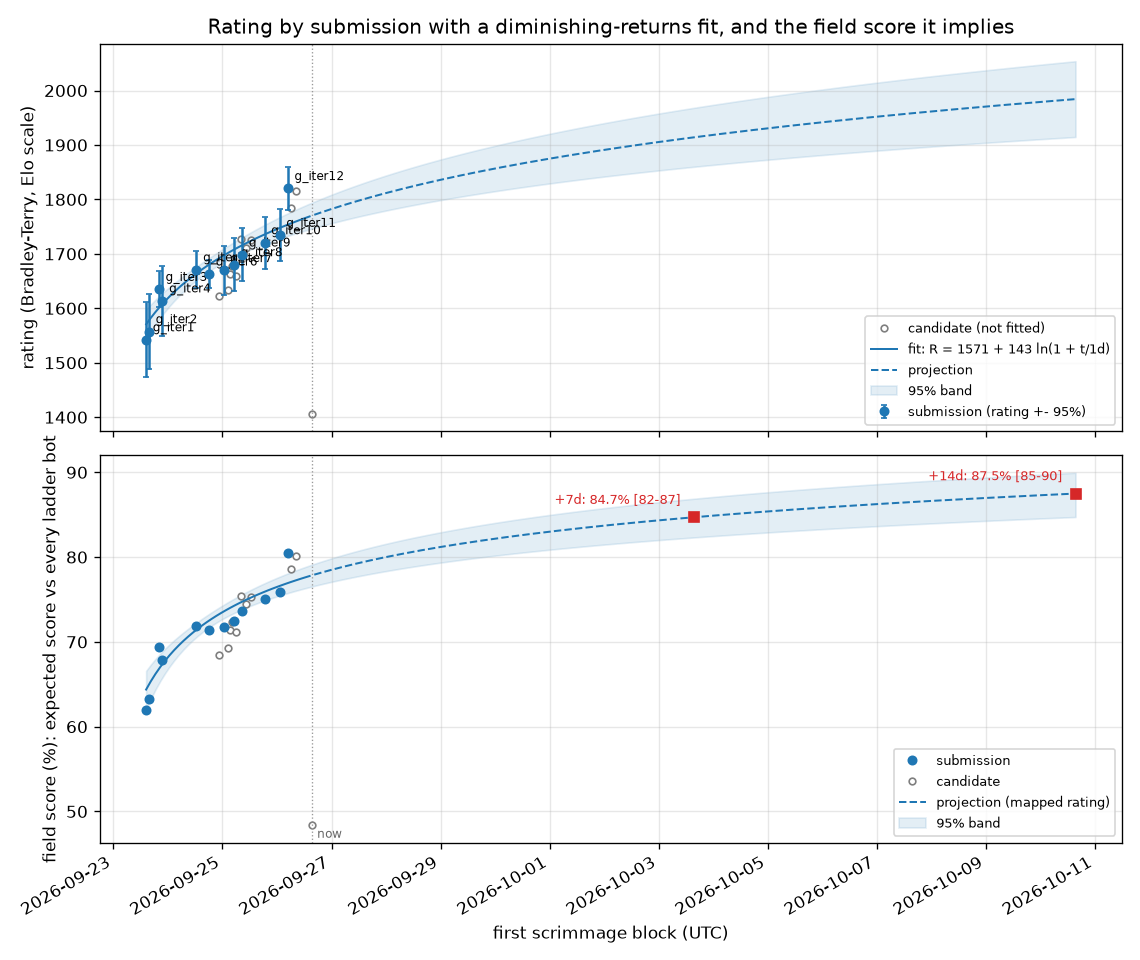
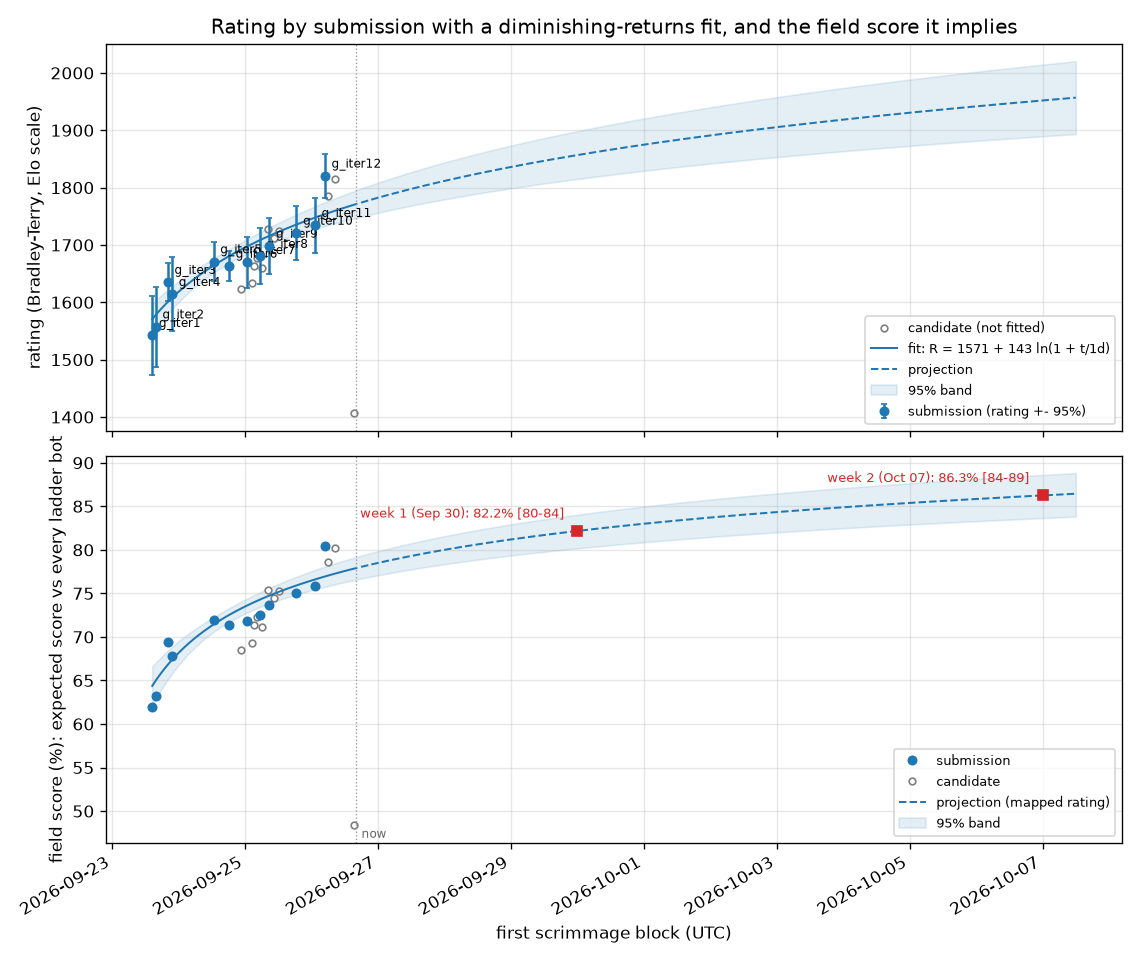
Field-score chart: horizons are Sep 30 and Oct 7, the ends of weeks 1 and 2 (PROMPTS 46); lattice stages 11-14 logged
Claude-Session: https://claude.ai/code/session_015tNyF5ucwWW1mudpEQTT25

diff --git a/src/bot/Landscaper.java b/src/bot/Landscaper.java
@@ -38,6 +38,10 @@ public strictfp class Landscaper extends Robot {
         if (forward) { attack(); return; }   // Iteration 63
         MapLocation home = MapState.home;
         if (home == null) { nav.setTarget(null); return; }
+        // Iteration 78 stage 9: the eight ring seats first, as g_iter12 (the rush answer: stage 8 died to rushes at r174-308 on
+        // three maps of six); every other home landscaper works the lattice
+        if (!attacker && !helper && (seat == null || (!seat.equals(loc) && occupiedByOther(seat)))) seat = pickSeat(home);
+        if (!attacker && seat == null) { lattice(home); return; }
         if (!attacker && !helper) {
             if (seat != null && !seat.equals(loc) && nav.target() == seat && nav.stalled()) { if (nBad < 8) badSeat[nBad++] = seat; Debug.log("@badseat " + seat); seat = null; }
             if (seat == null || !seat.equals(loc) && occupiedByOther(seat)) seat = pickSeat(home);
@@ -47,6 +51,67 @@ public strictfp class Landscaper extends Robot {
         if (helper) { help(home); return; }
         if (!loc.equals(seat)) { if (floodDanger() && climb()) return; nav.setTarget(seat); nav.step(); if (loc.equals(seat)) Debug.log("@seated at=" + seat); return; }
         wall(home);
+    }
+
+    private MapLocation latSpot;
+    private boolean schoolDoor(MapLocation n) throws GameActionException {
+        for (int i = nFriend; --i >= 0;) { RobotInfo f = friends[i]; if (f.type != RobotType.DESIGN_SCHOOL || !f.location.isAdjacentTo(n)) continue;
+            if (rc.canSenseLocation(f.location) && rc.canSenseLocation(n) && rc.senseElevation(n) >= rc.senseElevation(f.location) + 2) return true; }
+        return false;
+    }
+    /** Iteration 78: work the lattice. Dig the HQ out; with dirt, raise the lowest grid tile beside us that is below the
+     *  target (our own tile included); without, dig a free cell beside us (a pit), else a grid tile far above the
+     *  target, else walk to the lowest grid tile in sight. */
+    private void lattice(MapLocation home) throws GameActionException {
+        if (!rc.isReady()) return;
+        if (hqInfo != null && hqInfo.dirtCarrying > 0 && loc.isAdjacentTo(home) && rc.canDigDirt(loc.directionTo(home)) && rc.getDirtCarrying() < RobotType.LANDSCAPER.dirtLimit) { rc.digDirt(loc.directionTo(home)); hqDigs++; digs++; return; }
+        for (int i = nEnemy; --i >= 0;) { RobotInfo e = enemies[i]; if (e.type.isBuilding() && loc.isAdjacentTo(e.location) && rc.getDirtCarrying() > 0 && rc.canDepositDirt(loc.directionTo(e.location))) { rc.depositDirt(loc.directionTo(e.location)); buryDeposits++; return; } }
+        // stage 3: the HQ being buried is everyone's job -- a free tile beside it, now (stage 2 died to the rush at r279, no dig)
+        if (hqInfo != null && hqInfo.dirtCarrying > 0 && !loc.isAdjacentTo(home)) { if (rc.getDirtCarrying() > 0) { for (int i = 8; --i >= 0;) { Direction d = DIRS[i]; if (!loc.add(d).equals(home) && !isGrid(loc.add(d)) && !isLot(loc.add(d)) && rc.canDepositDirt(d)) { rc.depositDirt(d); return; } } } nav.setTarget(home); nav.step(); return; }
+        int target = gridTarget(round);
+        if (!isGrid(loc) || Nav.cheb(loc, home) > C.LATTICE_R) {   // get onto the lattice
+            MapLocation best = null; int bd = 1 << 30;
+            for (int dx = -C.LATTICE_R; dx <= C.LATTICE_R; dx++) for (int dy = -C.LATTICE_R; dy <= C.LATTICE_R; dy++) {
+                MapLocation t = new MapLocation(home.x + dx, home.y + dy); if (!isGrid(t) || !rc.onTheMap(t)) continue;
+                if (rc.canSenseLocation(t) && (rc.senseFlooding(t) || rc.isLocationOccupied(t))) continue;
+                int d = loc.distanceSquaredTo(t); if (d < bd) { bd = d; best = t; } }
+            if (best != null) { nav.setTarget(best); nav.step(); } return;
+        }
+        if (rc.getDirtCarrying() > 0) {
+            Direction bestD = null; int be = target;
+            if (rc.senseElevation(loc) < be && !schoolDoor(loc)) { be = rc.senseElevation(loc); bestD = Direction.CENTER; }
+            for (int i = 8; --i >= 0;) { Direction d = DIRS[i]; MapLocation n = loc.add(d); if (!(isGrid(n) || isLot(n)) || !rc.canSenseLocation(n) || !rc.canDepositDirt(d)) continue;
+                RobotInfo r = rc.senseRobotAtLocation(n); if (r != null && r.type.isBuilding()) continue;
+                if (isGrid(n) && schoolDoor(n)) continue;   // stage 7: a school's doors stay within 3 of it (the first school was boxed in at eight landscapers)
+                int e = rc.senseElevation(n) - (isLot(n) ? C.LOT_ABOVE : 0);
+                if (isLot(n) && e < target) { for (int k = nFriend; --k >= 0;) if (friends[k].type == RobotType.MINER && friends[k].location.isAdjacentTo(n)) { e -= 1000; break; } }   // stage 13: the pad our builder waits beside first
+                if (e < be) { be = e; bestD = d; } }   // stage 11: lots raised to the grid + LOT_ABOVE (pads)
+            if (bestD != null && rc.canDepositDirt(bestD)) { rc.depositDirt(bestD); deposits++; return; }
+        }
+        if (rc.getDirtCarrying() < RobotType.LANDSCAPER.dirtLimit) {
+            Direction bestD = null; int bs = Integer.MAX_VALUE;
+            for (int i = 8; --i >= 0;) { Direction d = DIRS[i]; MapLocation n = loc.add(d); if (!rc.onTheMap(n) || n.equals(home) || !rc.canDigDirt(d)) continue;
+                RobotInfo r = rc.canSenseLocation(n) ? rc.senseRobotAtLocation(n) : null; if (r != null && (r.type.isBuilding() || r.team == us)) continue;
+                int e = rc.senseElevation(n), s;
+                if (isPit(n)) s = -e;                                      // a pit: the highest first (stage 2: pits only, never a lot)
+                else if (isGrid(n) && e > target + 20) s = 100000 - e;     // a grid tile far above the target
+                else if (Nav.cheb(n, home) > C.LATTICE_R) s = 200000 - e;  // outside the lattice
+                else continue;
+                if (s < bs) { bs = s; bestD = d; } }
+            if (bestD != null) { rc.digDirt(bestD); digs++; return; }
+        }
+        // nothing to do here: walk the grid toward its lowest tile in sight (re-chosen every 20 rounds)
+        for (int k = nFriend; --k >= 0;) { RobotInfo f = friends[k]; if (f.type != RobotType.MINER || Nav.cheb(f.location, home) > C.LATTICE_R + 1) continue;   // stage 13: go to the builder's pad
+            for (int i = 8; --i >= 0;) { MapLocation lot = f.location.add(DIRS[i]); if (!isLot(lot) || !rc.canSenseLocation(lot) || rc.isLocationOccupied(lot) || rc.senseElevation(lot) >= target + C.LOT_ABOVE) continue;
+                for (int j = 8; --j >= 0;) { MapLocation g = lot.add(DIRS[j]); if (isGrid(g) && !g.equals(f.location) && rc.canSenseLocation(g) && !rc.isLocationOccupied(g)) { latSpot = g; break; } } } }
+        if (latSpot == null || loc.equals(latSpot) || round % 20 == id % 20) {
+            MapLocation best = null; int be = Integer.MAX_VALUE;
+            for (int dx = -C.LATTICE_R; dx <= C.LATTICE_R; dx++) for (int dy = -C.LATTICE_R; dy <= C.LATTICE_R; dy++) {
+                MapLocation t = new MapLocation(home.x + dx, home.y + dy); if (!isGrid(t) || !rc.canSenseLocation(t) || rc.isLocationOccupied(t)) continue;
+                int e = rc.senseElevation(t) * 4 + loc.distanceSquaredTo(t); if (e < be) { be = e; best = t; } }
+            latSpot = best;
+        }
+        if (latSpot != null) { nav.setTarget(latSpot); nav.step(); }
     }
 
     private boolean occupiedByOther(MapLocation l) throws GameActionException {

diff --git a/src/bot/Miner.java b/src/bot/Miner.java
@@ -9,6 +9,7 @@ import battlecode.common.*;
  * nearest refinery or the HQ, explore when nothing is known).
  */
 public strictfp class Miner extends Robot {
+    private int lastSchoolRound = -1000, wantSince = 0; private RobotType lastWant = null;
     private boolean builder, rusher, planted; private int probeRounds = 0, probeSign = -1;
     private final MapLocation[] soupMem = new MapLocation[C.SOUP_MEMORY]; private int nSoup = 0;
     private MapLocation explore;
@@ -75,6 +76,26 @@ public strictfp class Miner extends Robot {
         nav.step();
     }
 
+    /** Iteration 78: build on a free cell of the lattice beside us; else walk to a grid tile beside the nearest free cell. */
+    private boolean latticeBuild(RobotType want, MapLocation home) throws GameActionException {
+        if (!rc.isReady()) return true;
+        for (int i = 8; --i >= 0;) { Direction d = DIRS[i]; MapLocation n = loc.add(d); if (!isLot(n) || Nav.cheb(n, home) < 2 || !rc.canBuildRobot(want, d)) continue;
+            if ((want == RobotType.VAPORATOR || want == RobotType.FULFILLMENT_CENTER || (want == RobotType.DESIGN_SCHOOL && builtSchool > 0)) && rc.senseElevation(n) < gridTarget(round) + C.LOT_ABOVE - 1) continue;   // stage 11-12: on a raised pad
+            rc.buildRobot(want, d); lastWant = null; Debug.log("@build t=" + want.ordinal() + " at=" + n + " cell soup=" + rc.getTeamSoup());
+            if (want == RobotType.REFINERY) { builtRefinery++; refinery = n; } else if (want == RobotType.DESIGN_SCHOOL) builtSchool++; else if (want == RobotType.VAPORATOR) builtVap++; else if (want == RobotType.NET_GUN) builtNet++; else builtFC++;
+            return true; }
+        MapLocation best = null; int bd = 1 << 30;
+        for (int dx = -C.LATTICE_R; dx <= C.LATTICE_R; dx++) for (int dy = -C.LATTICE_R; dy <= C.LATTICE_R; dy++) {
+            MapLocation c = new MapLocation(home.x + dx, home.y + dy); if (!isLot(c) || Nav.cheb(c, home) < 2 || !rc.onTheMap(c)) continue;
+            if (rc.canSenseLocation(c) && (rc.isLocationOccupied(c) || rc.senseFlooding(c))) continue;
+            int d = loc.distanceSquaredTo(c); if (d < bd) { bd = d; best = c; } }
+        if (best == null) return false;
+        // stage 2: stand on a grid tile beside the lot (a lot's own tile is not a place to stand while building on it)
+        MapLocation stand = null; int sd = 1 << 30; for (int i = 8; --i >= 0;) { MapLocation g = best.add(DIRS[i]); if (!isGrid(g) || !rc.onTheMap(g)) continue; if (rc.canSenseLocation(g) && rc.isLocationOccupied(g) && !g.equals(loc)) continue; int d = loc.distanceSquaredTo(g); if (d < sd) { sd = d; stand = g; } }
+        if (stand != null) best = stand;
+        nav.setTarget(best); if (nav.stalled()) { buildPause = round + 30; return false; } nav.step(); return true;
+    }
+
     // ---------------------------------------------------------------- builder
     private boolean build() throws GameActionException {
         MapLocation home = MapState.home; if (home == null) return false;
@@ -88,11 +109,18 @@ public strictfp class Miner extends Robot {
         else if (builtSchool > 0 && builtFC == 0 && rushSeen() && soup >= RobotType.FULFILLMENT_CENTER.cost) { want = RobotType.FULFILLMENT_CENTER; Debug.log("@rush center"); }
         else if (builtRefinery == 0 && soup >= RobotType.REFINERY.cost) want = RobotType.REFINERY;
         else if (builtRefinery > 0 && builtSchool == 0 && soup >= RobotType.DESIGN_SCHOOL.cost) want = RobotType.DESIGN_SCHOOL;
-        else if (builtFC > 0 && builtFC < 6 && round >= 800 && soup >= 400) want = RobotType.FULFILLMENT_CENTER;   // Iteration 80: more centers after r800
-        else if (builtSchool > 0 && builtVap < C.VAPORATORS_MAX && soup >= C.VAPORATOR_BANK && (round < 900 || builtFC > 0)) want = RobotType.VAPORATOR;
+        else if (builtSchool > 0 && builtSchool < 4 && soup >= 1000 && round - lastSchoolRound > 150) { want = RobotType.DESIGN_SCHOOL; lastSchoolRound = round; }   // stage 6: another school on a fresh lot when the bank piles up (the first is boxed in by the rising grid: eight landscapers and 15,000 soup idle)
+        else if (builtFC > 0 && builtFC < 4 && soup >= 2000 && round >= 600 && round - lastSchoolRound > 100) { want = RobotType.FULFILLMENT_CENTER; lastSchoolRound = round; }   // stage 8: more centers for the raid when the bank piles up
+        else if (builtVap >= 4 && builtFC == 0 && soup >= RobotType.FULFILLMENT_CENTER.cost) want = RobotType.FULFILLMENT_CENTER;   // stage 9: the first center once four vaporators stand (it came after the vaporators, i.e. never: RandomSoup1 banked 39,000 with no drone)
+        else if (builtSchool > 0 && builtVap < C.VAPORATORS_MAX && soup >= C.VAPORATOR_BANK) want = RobotType.VAPORATOR;
         else if (builtVap > 0 && builtFC == 0 && soup >= C.FC_BANK + RobotType.FULFILLMENT_CENTER.cost) want = RobotType.FULFILLMENT_CENTER;   // Iteration 2's early center gated at 52%: back to after the first vaporator
         else if (builtVap > 0 && builtNet < C.NETGUNS_MAX && soup >= C.NETGUN_BANK + RobotType.NET_GUN.cost) want = RobotType.NET_GUN;
         if (want == null) return false;
+        // stage 10: on a lot, but for no more than 40 rounds per building (Squares: the lots sat on 20-99 cliffs, the builder
+        // walked for 900 rounds after its refinery and no school was ever built); then the old placement
+        if (want != lastWant) { lastWant = want; wantSince = round; }
+        boolean mayFallBack = want == RobotType.REFINERY || (want == RobotType.DESIGN_SCHOOL && builtSchool == 0);   // stage 12: only the refinery and the first school leave the lattice (a vaporator, school or center at ground drowns at the flood)
+        if ((want != RobotType.FULFILLMENT_CENTER || !rushSeen()) && (round - wantSince < 40 || !mayFallBack)) return latticeBuild(want, home);   // Iteration 78: every building on a cell
         if (want == RobotType.FULFILLMENT_CENTER && rushSeen()) return rushBuild(want, home);   // Iteration 57: the rush center where the rusher is not (Iteration 54's never found a site)
         // site: a tile at Chebyshev BUILD_DIST from home, or further out for later buildings
         int dist = want == RobotType.REFINERY || want == RobotType.DESIGN_SCHOOL ? C.BUILD_DIST : C.BUILD_DIST + 1 + (builtVap + builtNet + builtFC) / 4;

diff --git a/src/bot/C.java b/src/bot/C.java
@@ -19,9 +19,9 @@ public final class C {
     public static final int SOUP_BAD = 8;             // unreachable soup regions a miner remembers
     public static final int VAPORATOR_BANK = 500;     // a builder buys a vaporator when the bank exceeds this
     public static final int FC_EARLY_BANK = 350;      // Iteration 2: the fulfillment center comes right after the school, at this bank
-    public static final int VAPORATORS_MAX = 60;
+    public static final int VAPORATORS_MAX = 40;
     public static final int NETGUN_BANK = 400;        // ... a net gun (after the first vaporator) above this
-    public static final int NETGUNS_MAX = 2;
+    public static final int NETGUNS_MAX = 0;
     public static final int FC_BANK = 500;            // ... a fulfillment center above this, once the wall has started
     public static final int DRONES_MAX = 8;           // Iteration 2: drones fly over the flood and count at the tiebreak
     public static final int DRONE_RESERVE = 250;      // the center keeps this much soup back
@@ -29,8 +29,8 @@ public final class C {
     // landscapers in twenty rounds and drop theirs by our HQ; scale 24 -> 70 drones from r700, charge with 20.
     // Iteration 61: the raid. The field wins r1500-2300 with 8-25 drones lifting wall landscapers off the ring; our late
     // bank (2,000+ soup unspent from r800 on the ladder's late games) buys the same.
-    public static final int RAID_DRONES_MAX = 300;     // drones built in all, from RAID_BUILD_FROM
-    public static final int RAID_BUILD_FROM = 700;
+    public static final int RAID_DRONES_MAX = 150;     // drones built in all, from RAID_BUILD_FROM
+    public static final int RAID_BUILD_FROM = 900;
     public static final int RAID_FROM = 1400;         // the swarm gathers from this round
     public static final int RAID_MIN = 20;            // and charges with this many in sight of the rally point
     public static final int RAID_HOME_GUARD = 3;      // the first three drones never raid
@@ -41,14 +41,16 @@ public final class C {
     public static final int WALL_LANDSCAPERS = 8;     // one per ring tile
     public static final int WALL_HELPERS = 8;         // Iteration 3: a second ring at distance 2 feeding dirt onto the seats
     public static final int HELPER_BANK = 200;        // Iteration 43b: was 300, 43 tried 0 (the HQ starved of miners); 200 leaves the HQ its MINER_SOUP_RESERVE -- the bank it guarded is never spent (12,000 unspent at r3000)
-    public static final int LANDSCAPERS_MAX = 24;     // the surplus attacks
+    public static final int LANDSCAPERS_MAX = 40;     // the surplus attacks
     public static final int ATTACKER_BANK = 200;      // Iteration 43b: was 700, 43 tried 0 -- landscapers 17-24 came 200 rounds late on RandomSoup1 and never on Toothpaste as A
     public static final int RUSH_UNTIL = 400;          // Iteration 29: an enemy school or landscaper this close to our HQ before this round is a rush
     public static final int RUSH_D2 = 64;
     public static final boolean ASSUME_ORIGIN = true;
-    // Iteration 80 (winkelmantanner's economy, read 2026-09-26: 24 landscapers and 1 vaporator at r500, then 45 vaporators
-    // by r1000 and 72 by r1500, 8 centers and 483 drones that lift every landscaper off our wall by r2000): once the wall is
-    // manned, every soup into vaporators until r800; then centers and drones.
+    // Iteration 78: ronniesong0809's lattice (read 2026-09-26, PROMPTS 45). Around the HQ, every tile with an even
+    // x or an even y offset is GRID, raised with the water; the odd-odd CELLS are pits (dirt) or buildings.
+    public static final int LATTICE_R = 4;             // Chebyshev radius of the lattice
+    public static final int LOT_ABOVE = 3;             // stage 11 (winkelmantanner's lattice, read 2026-09-26): lots stand ABOVE the grid -- walkways at 7, vaporator pads at 9-10, pits left to flood; its vaporators lived to r1700-1800 on a map that floods at r677
+    public static final int GRID_MIN = 7;              // the grid's floor height (stage 5: 8 -> 5 -- a grid raised past a building's tile + 3 boxes its spawns in; the school at ground stopped at eight landscapers)
     public static final int RUSH_GIVEUP = 200;         // Iteration 63: our rusher goes back to mining after this round
     public static final int RUSH_LANDSCAPERS = 8;      // Iteration 63: the forward school's landscapers
     public static final int BUILD_DIST = 2;           // Chebyshev distance from the HQ at which buildings go (ring is 1)

diff --git a/tools/field-score.py b/tools/field-score.py
@@ -1,6 +1,6 @@
 #!/usr/bin/env python3
 # run with tools/.venv/bin/python3 on the driver (numpy, matplotlib live in the venv); post-block.sh does
-"""Field score over time, projected one and two weeks out (PROMPTS 28-30).
+"""Field score over time, projected to the end of the project's first and second weeks (PROMPTS 28-30, 46).
    tools/field-score.py [--plot progress/field-score.png] [--tau 1.0]
 
 The field score (a build's expected score against every ladder bot, one game each) is a bounded percentage that
@@ -34,13 +34,17 @@ xs = np.array([np.log1p(days(d) / o.tau) for d, _ in subs]); ys = np.array([R[p]
 def proj(t):
     x = np.log1p(t / o.tau); r = r0 + aa * x; s = np.sqrt(cov[0, 0] * x * x + 2 * cov[0, 1] * x + cov[1, 1]); return r, 1.96 * s
 now = dt.datetime.utcnow(); tn = days(now)
+# The projection horizons are the ends of the project's first and second weeks (PROMPTS 46: the project began
+# 2026-09-23, so one week is September 30 and two weeks October 7), not "now + 7 / 14 days".
+START = dt.datetime(2026, 9, 23); HORIZONS = [('week 1', START + dt.timedelta(days=7)), ('week 2', START + dt.timedelta(days=14))]
 print('submissions:', ', '.join(f'{p[3:]} {R[p]:.0f}+-{1.96 * SE[p]:.0f} ({d:%m-%d %H:%M}) {score(R[p]):.1f}%' for d, p in subs))
 print(f'rating fit R = {r0:.0f} + {aa:.0f} ln(1 + t/{o.tau:g} d) (t in days from {t0:%Y-%m-%d %H:%M} UTC)')
-for k in (0, 7, 14):
-    r, e = proj(tn + k); print(f'  +{k:2d}d: rating {r:.0f} +- {e:.0f}  ->  field score {score(r):.1f}% [{score(r - e):.1f}%, {score(r + e):.1f}%]')
+r, e = proj(tn); print(f'  now ({now:%b %d}): rating {r:.0f} +- {e:.0f}  ->  field score {score(r):.1f}% [{score(r - e):.1f}%, {score(r + e):.1f}%]')
+for name, when in HORIZONS:
+    r, e = proj(days(when)); print(f'  {name} ({when:%b %d}): rating {r:.0f} +- {e:.0f}  ->  field score {score(r):.1f}% [{score(r - e):.1f}%, {score(r + e):.1f}%]')
 import matplotlib; matplotlib.use('Agg'); import matplotlib.pyplot as plt
 fig, (ax1, ax2) = plt.subplots(2, 1, figsize=(9.5, 8), sharex=True)
-tt = np.linspace(0, tn + 14, 200); dates = [t0 + dt.timedelta(days=t) for t in tt]
+tt = np.linspace(0, max(tn, days(HORIZONS[-1][1])) + 0.5, 200); dates = [t0 + dt.timedelta(days=t) for t in tt]
 rr = np.array([proj(t)[0] for t in tt]); ee = np.array([proj(t)[1] for t in tt])
 cand = [(d, p) for d, p in pts if (d, p) not in subs]
 # rating panel
@@ -58,9 +62,9 @@ ax2.plot([d for d, _ in subs], [score(R[p]) for _, p in subs], 'o', color='tab:b
 if cand: ax2.plot([d for d, _ in cand], [score(R[p]) for _, p in cand], 'o', mfc='white', mec='tab:gray', ms=4, label='candidate')
 ax2.plot(np.array(dates)[past], ss[past], '-', color='tab:blue', lw=1.2); ax2.plot(np.array(dates)[~past], ss[~past], '--', color='tab:blue', lw=1.2, label='projection (mapped rating)')
 ax2.fill_between(dates, lo, hi, color='tab:blue', alpha=.12, label='95% band')
-for k in (7, 14):
-    r, e = proj(tn + k); d = now + dt.timedelta(days=k); ax2.plot([d], [score(r)], 's', color='tab:red', ms=6)
-    ax2.annotate(f'+{k}d: {score(r):.1f}% [{score(r - e):.0f}-{score(r + e):.0f}]', (d, score(r)), textcoords='offset points', xytext=(-8, 8), fontsize=8, ha='right', color='tab:red')
+for name, d in HORIZONS:
+    r, e = proj(days(d)); ax2.plot([d], [score(r)], 's', color='tab:red', ms=6)
+    ax2.annotate(f'{name} ({d:%b %d}): {score(r):.1f}% [{score(r - e):.0f}-{score(r + e):.0f}]', (d, score(r)), textcoords='offset points', xytext=(-8, 8), fontsize=8, ha='right', color='tab:red')
 ax2.axvline(now, color='0.6', lw=0.8, ls=':'); ax2.annotate('now', (now, ax2.get_ylim()[0]), textcoords='offset points', xytext=(3, 3), fontsize=7, color='0.4')
 ax2.set_ylabel('field score (%): expected score vs every ladder bot'); ax2.set_xlabel('first scrimmage block (UTC)'); ax2.grid(alpha=.3); ax2.legend(fontsize=8, loc='lower right')
 fig.autofmt_xdate(); fig.tight_layout(); fig.savefig(o.plot, dpi=120); print('wrote', o.plot)

diff --git a/src/cand78/Miner.java b/src/cand78/Miner.java
@@ -80,6 +80,7 @@ public strictfp class Miner extends Robot {
     private boolean latticeBuild(RobotType want, MapLocation home) throws GameActionException {
         if (!rc.isReady()) return true;
         for (int i = 8; --i >= 0;) { Direction d = DIRS[i]; MapLocation n = loc.add(d); if (!isLot(n) || Nav.cheb(n, home) < 2 || !rc.canBuildRobot(want, d)) continue;
+            if ((want == RobotType.VAPORATOR || want == RobotType.FULFILLMENT_CENTER || (want == RobotType.DESIGN_SCHOOL && builtSchool > 0)) && rc.senseElevation(n) < gridTarget(round) + C.LOT_ABOVE - 1) continue;   // stage 11-12: on a raised pad
             rc.buildRobot(want, d); lastWant = null; Debug.log("@build t=" + want.ordinal() + " at=" + n + " cell soup=" + rc.getTeamSoup());
             if (want == RobotType.REFINERY) { builtRefinery++; refinery = n; } else if (want == RobotType.DESIGN_SCHOOL) builtSchool++; else if (want == RobotType.VAPORATOR) builtVap++; else if (want == RobotType.NET_GUN) builtNet++; else builtFC++;
             return true; }
@@ -118,7 +119,8 @@ public strictfp class Miner extends Robot {
         // stage 10: on a lot, but for no more than 40 rounds per building (Squares: the lots sat on 20-99 cliffs, the builder
         // walked for 900 rounds after its refinery and no school was ever built); then the old placement
         if (want != lastWant) { lastWant = want; wantSince = round; }
-        if ((want != RobotType.FULFILLMENT_CENTER || !rushSeen()) && round - wantSince < 40) return latticeBuild(want, home);   // Iteration 78: every building on a cell
+        boolean mayFallBack = want == RobotType.REFINERY || (want == RobotType.DESIGN_SCHOOL && builtSchool == 0);   // stage 12: only the refinery and the first school leave the lattice (a vaporator, school or center at ground drowns at the flood)
+        if ((want != RobotType.FULFILLMENT_CENTER || !rushSeen()) && (round - wantSince < 40 || !mayFallBack)) return latticeBuild(want, home);   // Iteration 78: every building on a cell
         if (want == RobotType.FULFILLMENT_CENTER && rushSeen()) return rushBuild(want, home);   // Iteration 57: the rush center where the rusher is not (Iteration 54's never found a site)
         // site: a tile at Chebyshev BUILD_DIST from home, or further out for later buildings
         int dist = want == RobotType.REFINERY || want == RobotType.DESIGN_SCHOOL ? C.BUILD_DIST : C.BUILD_DIST + 1 + (builtVap + builtNet + builtFC) / 4;

diff --git a/src/cand78/Landscaper.java b/src/cand78/Landscaper.java
@@ -83,7 +83,9 @@ public strictfp class Landscaper extends Robot {
             for (int i = 8; --i >= 0;) { Direction d = DIRS[i]; MapLocation n = loc.add(d); if (!(isGrid(n) || isLot(n)) || !rc.canSenseLocation(n) || !rc.canDepositDirt(d)) continue;
                 RobotInfo r = rc.senseRobotAtLocation(n); if (r != null && r.type.isBuilding()) continue;
                 if (isGrid(n) && schoolDoor(n)) continue;   // stage 7: a school's doors stay within 3 of it (the first school was boxed in at eight landscapers)
-                int e = rc.senseElevation(n) + (isLot(n) ? 2 : 0); if (e < be) { be = e; bestD = d; } }   // stage 2: lots too, kept 2 under the grid
+                int e = rc.senseElevation(n) - (isLot(n) ? C.LOT_ABOVE : 0);
+                if (isLot(n) && e < target) { for (int k = nFriend; --k >= 0;) if (friends[k].type == RobotType.MINER && friends[k].location.isAdjacentTo(n)) { e -= 1000; break; } }   // stage 13: the pad our builder waits beside first
+                if (e < be) { be = e; bestD = d; } }   // stage 11: lots raised to the grid + LOT_ABOVE (pads)
             if (bestD != null && rc.canDepositDirt(bestD)) { rc.depositDirt(bestD); deposits++; return; }
         }
         if (rc.getDirtCarrying() < RobotType.LANDSCAPER.dirtLimit) {
@@ -99,6 +101,9 @@ public strictfp class Landscaper extends Robot {
             if (bestD != null) { rc.digDirt(bestD); digs++; return; }
         }
         // nothing to do here: walk the grid toward its lowest tile in sight (re-chosen every 20 rounds)
+        for (int k = nFriend; --k >= 0;) { RobotInfo f = friends[k]; if (f.type != RobotType.MINER || Nav.cheb(f.location, home) > C.LATTICE_R + 1) continue;   // stage 13: go to the builder's pad
+            for (int i = 8; --i >= 0;) { MapLocation lot = f.location.add(DIRS[i]); if (!isLot(lot) || !rc.canSenseLocation(lot) || rc.isLocationOccupied(lot) || rc.senseElevation(lot) >= target + C.LOT_ABOVE) continue;
+                for (int j = 8; --j >= 0;) { MapLocation g = lot.add(DIRS[j]); if (isGrid(g) && !g.equals(f.location) && rc.canSenseLocation(g) && !rc.isLocationOccupied(g)) { latSpot = g; break; } } } }
         if (latSpot == null || loc.equals(latSpot) || round % 20 == id % 20) {
             MapLocation best = null; int be = Integer.MAX_VALUE;
             for (int dx = -C.LATTICE_R; dx <= C.LATTICE_R; dx++) for (int dy = -C.LATTICE_R; dy <= C.LATTICE_R; dy++) {

diff --git a/src/cand78/C.java b/src/cand78/C.java
@@ -19,7 +19,7 @@ public final class C {
     public static final int SOUP_BAD = 8;             // unreachable soup regions a miner remembers
     public static final int VAPORATOR_BANK = 500;     // a builder buys a vaporator when the bank exceeds this
     public static final int FC_EARLY_BANK = 350;      // Iteration 2: the fulfillment center comes right after the school, at this bank
-    public static final int VAPORATORS_MAX = 12;
+    public static final int VAPORATORS_MAX = 40;
     public static final int NETGUN_BANK = 400;        // ... a net gun (after the first vaporator) above this
     public static final int NETGUNS_MAX = 0;
     public static final int FC_BANK = 500;            // ... a fulfillment center above this, once the wall has started
@@ -49,7 +49,8 @@ public final class C {
     // Iteration 78: ronniesong0809's lattice (read 2026-09-26, PROMPTS 45). Around the HQ, every tile with an even
     // x or an even y offset is GRID, raised with the water; the odd-odd CELLS are pits (dirt) or buildings.
     public static final int LATTICE_R = 4;             // Chebyshev radius of the lattice
-    public static final int GRID_MIN = 5;              // the grid's floor height (stage 5: 8 -> 5 -- a grid raised past a building's tile + 3 boxes its spawns in; the school at ground stopped at eight landscapers)
+    public static final int LOT_ABOVE = 3;             // stage 11 (winkelmantanner's lattice, read 2026-09-26): lots stand ABOVE the grid -- walkways at 7, vaporator pads at 9-10, pits left to flood; its vaporators lived to r1700-1800 on a map that floods at r677
+    public static final int GRID_MIN = 7;              // the grid's floor height (stage 5: 8 -> 5 -- a grid raised past a building's tile + 3 boxes its spawns in; the school at ground stopped at eight landscapers)
     public static final int RUSH_GIVEUP = 200;         // Iteration 63: our rusher goes back to mining after this round
     public static final int RUSH_LANDSCAPERS = 8;      // Iteration 63: the forward school's landscapers
     public static final int BUILD_DIST = 2;           // Chebyshev distance from the HQ at which buildings go (ring is 1)

diff --git a/src/bot/Robot.java b/src/bot/Robot.java
@@ -229,6 +229,14 @@ public abstract strictfp class Robot {
         return false;
     }
     /** Is l one of the 8 tiles around our HQ (the wall ring)? */
+    /** Iteration 78: the lattice. */
+    protected static boolean isCell(MapLocation t) { MapLocation h = MapState.home; if (h == null) return false; int dx = t.x - h.x, dy = t.y - h.y; return (dx & 1) != 0 && (dy & 1) != 0 && Nav.cheb(t, h) <= C.LATTICE_R; }
+    /** Iteration 78 stage 2: half the cells are LOTS (kept near the grid's height, for buildings: a build needs the site within
+     *  3 of the builder, and a pit is 17 below), the other half PITS (dug for dirt). */
+    protected static boolean isLot(MapLocation t) { if (!isCell(t)) return false; MapLocation h = MapState.home; return (((t.x - h.x + t.y - h.y) / 2) & 1) == 0; }
+    protected static boolean isPit(MapLocation t) { return isCell(t) && !isLot(t); }
+    protected static boolean isGrid(MapLocation t) { MapLocation h = MapState.home; if (h == null || t.equals(h)) return false; int dx = t.x - h.x, dy = t.y - h.y; return ((dx & 1) == 0 || (dy & 1) == 0) && Nav.cheb(t, h) <= C.LATTICE_R; }
+    protected static int gridTarget(int round) { return Math.max(C.GRID_MIN, (int) waterLevel(round + 150) + 3); }
     protected static boolean onRing(MapLocation l) { return MapState.home != null && Nav.cheb(l, MapState.home) == 1; }
     /** Can the flood reach ring tile l at all: does it touch any on-map tile outside the ring? A tile enclosed by the
      *  other ring tiles, the HQ and the map edge never floods (the flood spreads only from a flooded neighbour), so

diff --git a/src/bot/DesignSchool.java b/src/bot/DesignSchool.java
@@ -15,7 +15,9 @@ public strictfp class DesignSchool extends Robot {
             if (built < C.RUSH_LANDSCAPERS && soup >= RobotType.LANDSCAPER.cost && tryBuild(RobotType.LANDSCAPER, eh)) built++;
             return;
         }
-        if (built >= 20 && rc.getRoundNum() >= 400 && rc.getRoundNum() < 900) return;   // Iteration 80: the vaporators' window
+        // Iteration 78: after eight, two landscapers per vaporator standing (ronniesong grows both together)
+        int vaps = 0; for (int i = nFriend; --i >= 0;) if (friends[i].type == RobotType.VAPORATOR) vaps++;
+        // stage 14: no pacing (it deadlocked: no vaporator without pads, no pad without lattice workers, no worker without vaporators)
         boolean want = built < C.WALL_LANDSCAPERS ? soup >= RobotType.LANDSCAPER.cost
                      : built < C.WALL_LANDSCAPERS + C.WALL_HELPERS ? soup >= C.HELPER_BANK + RobotType.LANDSCAPER.cost
                      : built < C.LANDSCAPERS_MAX && soup >= C.ATTACKER_BANK + RobotType.LANDSCAPER.cost;

diff --git a/src/cand78/DesignSchool.java b/src/cand78/DesignSchool.java
@@ -17,7 +17,7 @@ public strictfp class DesignSchool extends Robot {
         }
         // Iteration 78: after eight, two landscapers per vaporator standing (ronniesong grows both together)
         int vaps = 0; for (int i = nFriend; --i >= 0;) if (friends[i].type == RobotType.VAPORATOR) vaps++;
-        if (built >= 16 && built - 16 >= vaps * 2) return;   // stage 4: pace only after sixteen (eight left us to the rush: r369)
+        // stage 14: no pacing (it deadlocked: no vaporator without pads, no pad without lattice workers, no worker without vaporators)
         boolean want = built < C.WALL_LANDSCAPERS ? soup >= RobotType.LANDSCAPER.cost
                      : built < C.WALL_LANDSCAPERS + C.WALL_HELPERS ? soup >= C.HELPER_BANK + RobotType.LANDSCAPER.cost
                      : built < C.LANDSCAPERS_MAX && soup >= C.ATTACKER_BANK + RobotType.LANDSCAPER.cost;

diff --git a/src/bot/FulfillmentCenter.java b/src/bot/FulfillmentCenter.java
@@ -16,7 +16,7 @@ public strictfp class FulfillmentCenter extends Robot {
         // (Iteration 57's saw nothing from there and bought one drone: gate57r 21-13)
         boolean rush = (rushSeen() || born < 350) && built < 3;
         int cap = rc.getRoundNum() >= C.RAID_BUILD_FROM ? C.RAID_DRONES_MAX : C.DRONES_MAX;   // Iteration 61
-        boolean want = built < cap && soup >= RobotType.DELIVERY_DRONE.cost + (rush ? 0 : rc.getRoundNum() < C.DRONE_ROUND ? C.DRONE_EARLY_BANK : C.DRONE_RESERVE);
+        boolean want = built < cap && soup >= RobotType.DELIVERY_DRONE.cost + (rush ? 0 : rc.getRoundNum() < C.DRONE_ROUND ? C.DRONE_EARLY_BANK : built >= C.DRONES_MAX ? 600 : C.DRONE_RESERVE);   // stage 9: raid drones only from a bank above 600 (the vaporators and schools first)
         if (want && tryBuild(RobotType.DELIVERY_DRONE, null)) built++;
     }
 }

diff --git a/tools/README.md b/tools/README.md
@@ -13,7 +13,7 @@ Everything runs with bare `java` (JDK 8 at `~/jdk/jdk8u504-b01`, exported by `to
 | `replay-dump.sh r.bc20 --elev-at N --elev-raw` | the board's dirt at round N with the numbers under the robots too (the enclosure census) |
 | `replay-dump.sh r.bc20 --seats A\|B --seats-at N` | the open ring tiles of that team's HQ at round N: occupant, nearest own landscaper and miner, enemies within 3, the outward neighbours' dirt; a summary line with landscapers and miners alive (the seat census, TRAINING_LOG 2026-09-25) |
 | `mirror.sh` (BOT, REF, N, BATCH, W0/L0, PAIRED, OPP) | the accept gate: random map, side and seed per cell, batches of 16; `PAIRED=1` (default) plays each cell as the candidate vs the incumbent and the incumbent vs itself (`paired.sh`), N counts pairs and `sprt.py` runs on the discordant pairs only; `PAIRED=0` is the old unpaired mirror |
-| `field-score.py [--plot --tau]` | `progress/field-score.png`: every build's field score over time; the submissions' ratings fitted with a diminishing-returns curve (R0 + a ln(1 + t/tau)) and projected 7 and 14 days out with a 95% band, mapped to field scores through the current ladder fit; run by `post-block.sh` after every block (PROMPTS 28-30) |
+| `field-score.py [--plot --tau]` | `progress/field-score.png`: every build's field score over time; the submissions' ratings fitted with a diminishing-returns curve (R0 + a ln(1 + t/tau)) and projected to the ends of the project's first and second weeks (Sep 30, Oct 7) with a 95% band, mapped to field scores through the current ladder fit; run by `post-block.sh` after every block (PROMPTS 28-30, 46) |
 | `paired.sh cells.txt` (BOT, REF, MAXJOBS, LOGTAG) | paired replay of a gate's cells (map, side, seed): the candidate game and the incumbent against itself on the same seed; fixed seeds make the engine deterministic, so a pair is concordant (identical to the round) wherever the change did not fire, and only the discordant pairs judge it (sign test); `tags` counts `LOGTAG` lines the candidate printed |
 | `sprt.py <wins> <losses>` | sequential probability ratio test, H0 p=0.50 vs H1 p=0.58: ACCEPT / REJECT / CONTINUE |
 | `scrim.sh` (BOT, N, POOL, SEED) | the only way to play an external bot: random map and side, rotating opponents from the rating band around `BOT` (default); `POOLSIZE=0 EXPLORE=n` is a calibration block of never-played bots; `CHALLENGE=1`, `POOLMODE=above`/`established` select the old pools |
